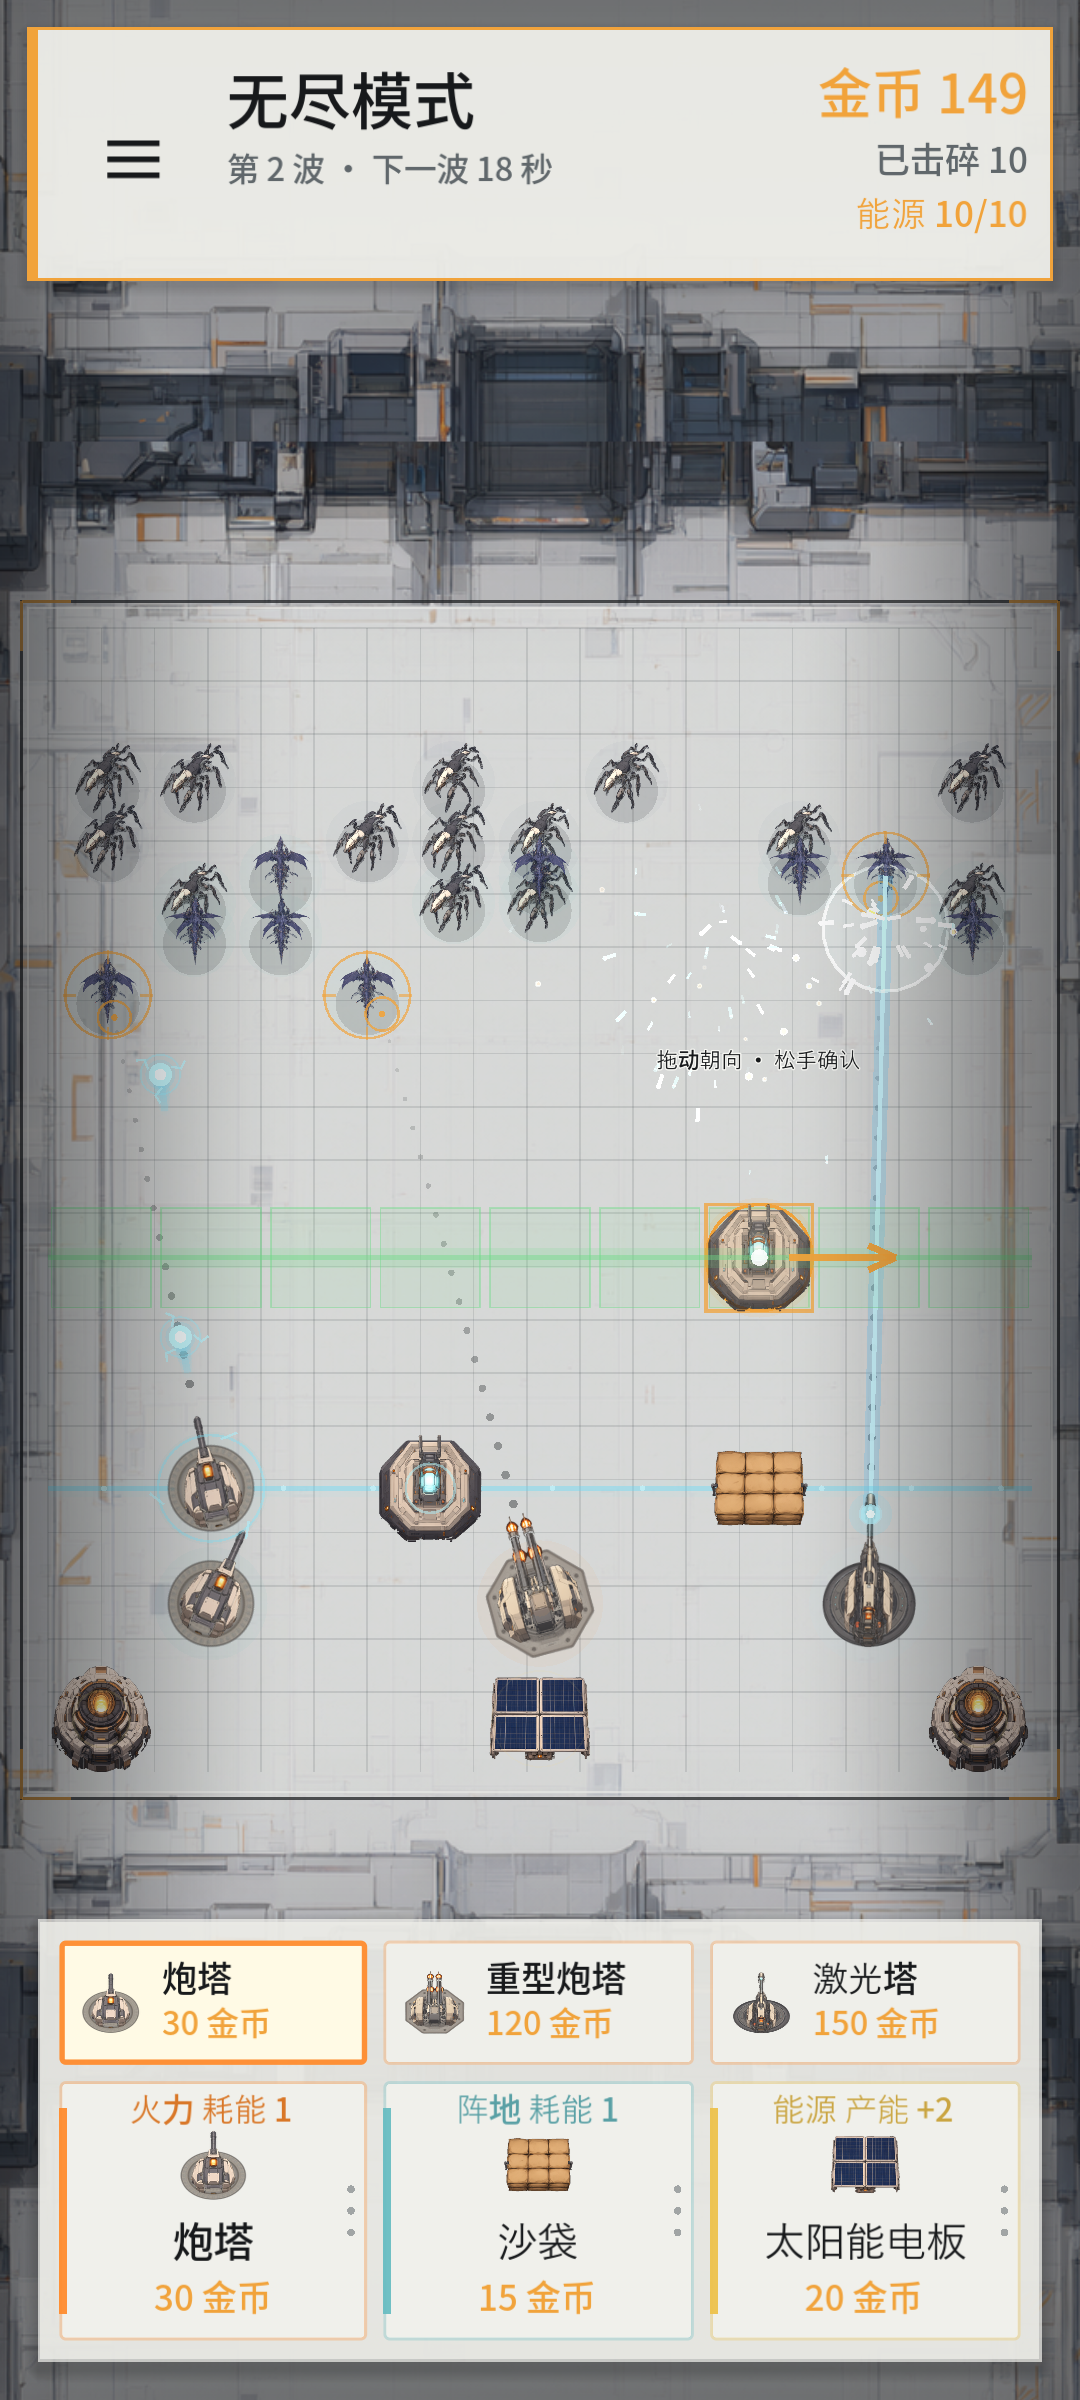
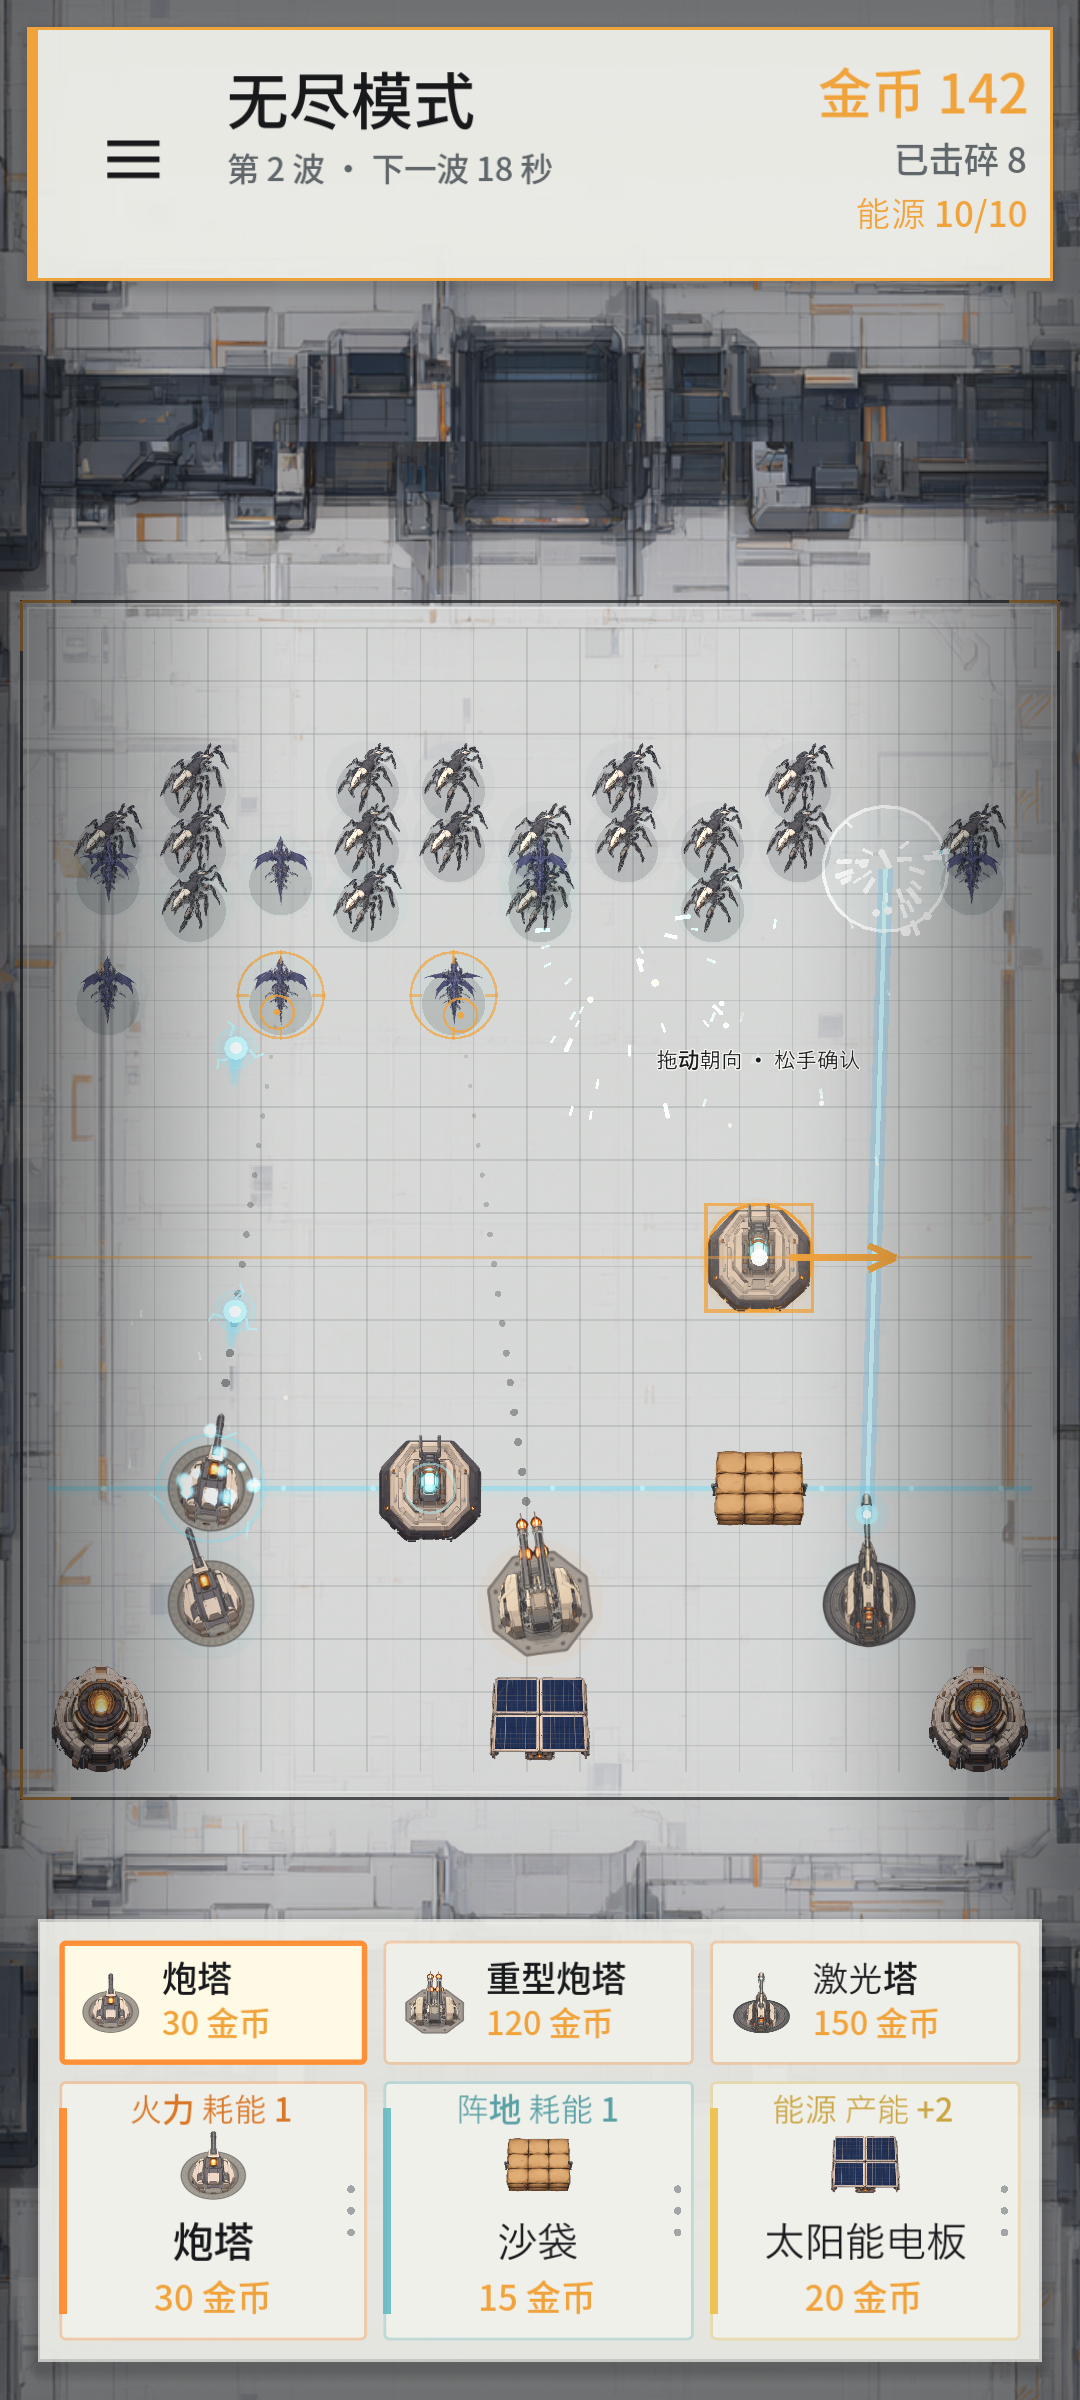
feat: 压缩塔改用加成塔粒子反馈
- 压缩塔不再铺绿色格子直线，二次确认只用橙色细线指示方向

- 受加成的火力塔身上持续冒青色粒子，离线或失去加成时自动停止

- 更新冒烟测试、README 与预览截图

diff --git a/README.md b/README.md
@@ -30,7 +30,7 @@
 - 火力建筑为 360° 圆形射程，按绿色格子判定目标；拖放到位后进入二次确认，再拖一次选初始朝向，松手确认并扣费，之后自动锁定射程格子内的目标
 - 重型炮塔 120 金币、激光塔 150 金币，和炮塔并列出现在火力道具列表中，直接建造
 - 阵地：沙袋生命 120，敌人接触后停下攻击沙袋，沙袋被摧毁后敌人继续前进；压缩塔 60 金币，生命 180
-- 压缩塔：穿过自身、沿所选朝向覆盖整条直线，范围内火力伤害翻倍，炮弹附带蓝色电击特效；多个压缩塔不叠加
+- 压缩塔：穿过自身、沿所选朝向覆盖整条直线，范围内火力伤害翻倍，炮弹附带蓝色电击特效；被加成的火力塔身上会持续冒青色粒子，多个压缩塔不叠加
 - 能源：太阳能电板产能 2、20 金币；聚能塔产能 4、60 金币。总产能不足时只有排在后段或新布置的建筑离线并置灰
 - 每次发射都会生成一颗独立的球，之前发射的球继续飞行；基础炮弹撞到第一个方块或墙面就消失
 - 每颗球独立计算寿命，撞墙或命中后消失
@@ -79,7 +79,7 @@
 - 压缩塔的覆盖范围是穿过自身、沿朝向延伸的整条直线；只有靠近这条直线的火力建筑吃到增益
 - 电击弹在命中时使用蓝白火花；激光塔吃到压缩塔增益时伤害同样翻倍
 - 敌人只会被阵地建筑拦截，因此沙袋/压缩塔要放在火力前面；被摧毁的阵地会从场上移除
-- 拖拽时以绿色格子标出圆形射程或压缩塔朝向直线，当前格用橙色描边；金币不足时卡片变暗且无法开始拖拽
+- 拖拽时以绿色格子标出火力建筑的圆形射程，当前格用橙色描边；压缩塔不铺绿色格子，只用一条橙色细线指示覆盖方向；金币不足时卡片变暗且无法开始拖拽
 - 部署期间战场时间降到 28%，屏幕四周压暗，确认或取消后恢复；沉浸感更强，也不会在摆建筑时被怪物偷血
 - 射程判定完全按格子，不再画圆弧；预览绿格、选中建筑绿格和索敌范围使用同一套格子
 - 点击已放置的建筑打开聚焦面板，显示属性与已发射数量；点击空白处或右上角 `×` 关闭
@@ -88,7 +88,7 @@
 
 ![落格后的二次确认：圆形射程、当前格和朝向箭头](confirm_preview.png)
 
-![压缩塔的二次确认：绿色直线覆盖随朝向旋转](orientation_preview.png)
+![压缩塔的二次确认：橙色细线指示方向，不再铺满绿色格子](orientation_preview.png)
 
 ## 主界面与设置
 
@@ -151,7 +151,7 @@ Godot_v4.7.2-stable_win64.exe --headless --fixed-fps 60 --path . res://tools/res
 Godot_v4.7.2-stable_win64.exe --headless --fixed-fps 60 --path . res://tools/smoke_test.tscn
 ```
 
-覆盖：默认中文语言包、英文 key 完整性、三类道具列表与直接建造、开局 50 金币、太阳能电板 + 炮塔刚好 50、无默认建筑、开局 5 秒准备/准备期无方块、方块从顶部视野外进入、拖放后二次确认、格子射程判定与圆形覆盖、部署减速/压暗与恢复、能源按布置顺序供电、新建筑离线置灰与恢复、重型炮塔/激光塔直接建造、激光塔光束直接伤害、自动索敌开火、沙袋拦截与受击/摧毁后放行、压缩塔朝向直线增益/偏离无效、电击弹伤害翻倍、网格吸附布置/四边边缘格子/扣费/非法位置、聚焦面板属性与拆除、方块击碎与金币奖励、命中粒子、波次节奏与血量复利成长、四类怪物差异、主界面与设置面板、暂停恢复与设置开关。
+覆盖：默认中文语言包、英文 key 完整性、三类道具列表与直接建造、开局 50 金币、太阳能电板 + 炮塔刚好 50、无默认建筑、开局 5 秒准备/准备期无方块、方块从顶部视野外进入、拖放后二次确认、格子射程判定与圆形覆盖、部署减速/压暗与恢复、能源按布置顺序供电、新建筑离线置灰与恢复、重型炮塔/激光塔直接建造、激光塔光束直接伤害、自动索敌开火、沙袋拦截与受击/摧毁后放行、压缩塔朝向直线增益/偏离无效、加成塔粒子开关、电击弹伤害翻倍、网格吸附布置/四边边缘格子/扣费/非法位置、聚焦面板属性与拆除、方块击碎与金币奖励、命中粒子、波次节奏与血量复利成长、四类怪物差异、主界面与设置面板、暂停恢复与设置开关。
 
 ## 更新截图
 
